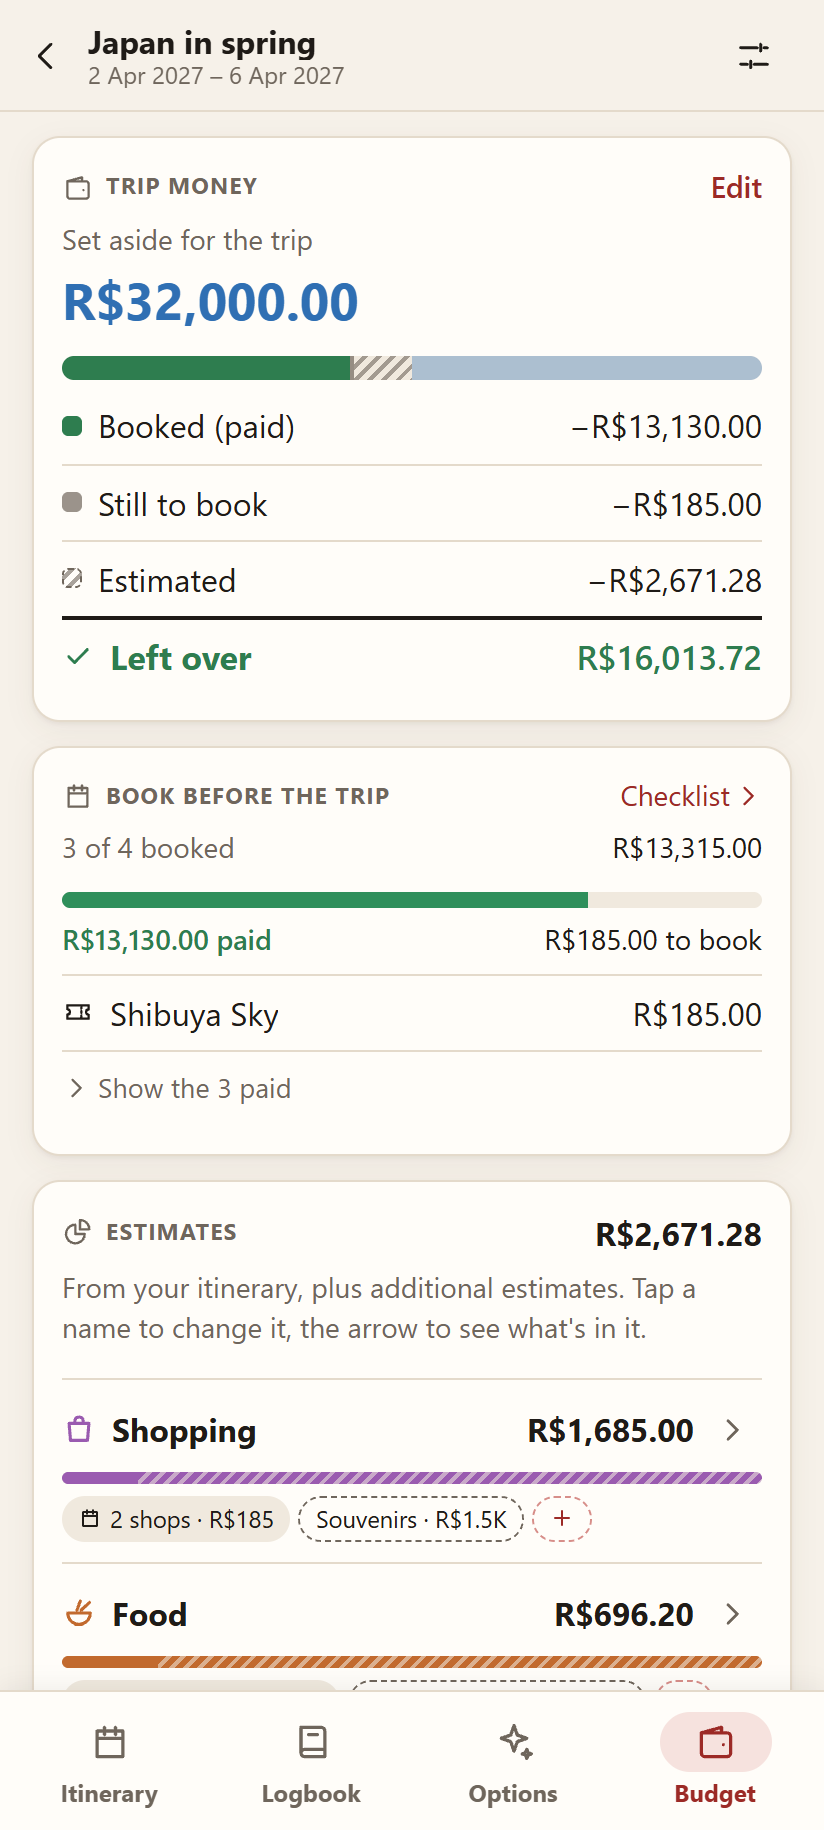
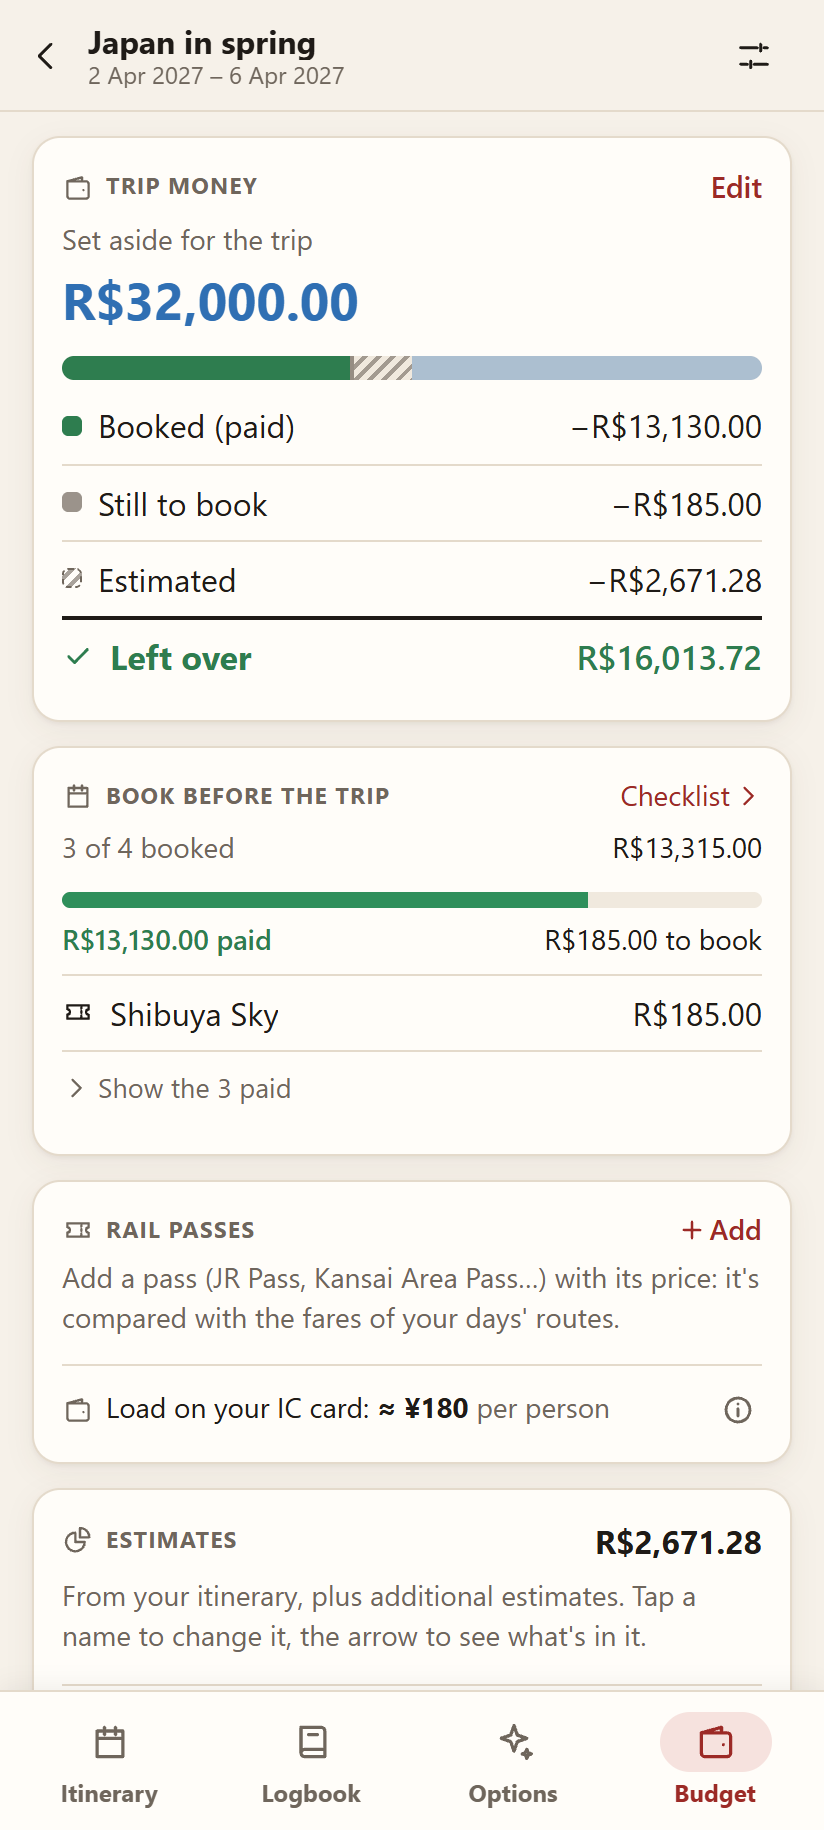
Phones: Rail passes under "Book before the trip", the hours conflict on its own line; new README screenshots (1.11.9)
- Budget on phones: the rail passes card had no order and came first, above Trip money; it now comes after "Book before the trip" (after the estimates during the trip).
- Day page on phones: an opening-hours conflict goes on a line under "N places · N km on foot", and "Optimize order" never wraps.
- README screenshots and tour.webp retaken on the demo trip (its Senso-ji now comes from an option, showing the name's "open" icon).

Changed region(s): [[0.0303, 0.6541, 0.9709, 0.9344]]

diff --git a/src/pages/DayPage.tsx b/src/pages/DayPage.tsx
@@ -270,7 +270,7 @@ export function DayPage({ tripId, dayId, hasGoogleKey }: { tripId: string; dayId
               <OptimizePanel day={day} places={places} legs={legs} onClose={() => setOptimizing(false)} />
             ) : (
               <div className="row between list-toolbar">
-                <span className="muted small">
+                <span className="muted small list-facts">
                   {places.length} places
                   {walking.meters > 0 && (
                     <span title={walking.estimated ? 'Some walks only have their minutes: estimated at 4.5 km/h' : undefined}>
@@ -279,14 +279,15 @@ export function DayPage({ tripId, dayId, hasGoogleKey }: { tripId: string; dayId
                       {formatDistance(walking.meters)} on foot
                     </span>
                   )}
+                  {/* On phones on a line of its own, under the places and the walking (User, 2026-11-03). */}
                   {conflicts > 0 && (
-                    <span className="warning">
-                      {' '}
-                      · {conflicts} opening-hours {conflicts === 1 ? 'conflict' : 'conflicts'}
+                    <span className="warning list-conflicts">
+                      <span className="list-conflicts-sep"> · </span>
+                      {conflicts} opening-hours {conflicts === 1 ? 'conflict' : 'conflicts'}
                     </span>
                   )}
                 </span>
-                <button type="button" className="ghost" onClick={() => setOptimizing(true)}>
+                <button type="button" className="ghost list-optimize" onClick={() => setOptimizing(true)}>
                   <Icon name="sparkle" /> Optimize order
                 </button>
               </div>

diff --git a/src/styles/planning.css b/src/styles/planning.css
@@ -410,6 +410,29 @@ button.hours-24.active {
 
 .list-toolbar {
   min-height: 38px;
+  flex-wrap: nowrap;
+}
+
+/* The facts shrink and wrap; "Optimize order" stays on one line, at the right. */
+.list-toolbar .list-facts {
+  flex: 1;
+  min-width: 0;
+}
+
+.list-toolbar .list-optimize {
+  flex: none;
+  white-space: nowrap;
+}
+
+/* Phones: an opening-hours conflict on a line of its own under "5 places · 2.8 km on foot". */
+@media (max-width: 599px) {
+  .list-conflicts {
+    display: block;
+  }
+
+  .list-conflicts-sep {
+    display: none;
+  }
 }
 
 .optimize-panel {

diff --git a/src/styles/budget.css b/src/styles/budget.css
@@ -49,8 +49,13 @@
     order: 2;
   }
 
-  .budget-grid .estimates-card {
+  /* Under "Book before the trip" (with no order it came first, above Trip money: found 2026-11-03). */
+  .budget-grid .rail-passes {
     order: 3;
+  }
+
+  .budget-grid .estimates-card {
+    order: 4;
   }
 
   .budget-grid.started .estimates-card {
@@ -59,6 +64,10 @@
 
   .budget-grid.started .book-ahead {
     order: 3;
+  }
+
+  .budget-grid.started .rail-passes {
+    order: 4;
   }
 }
 

diff --git a/CLAUDE.md b/CLAUDE.md
@@ -104,7 +104,7 @@ The trip is planned long before it happens, so **choosing something is not booki
     - "Book before the trip" (2B): "Checklist ›" link, "N of M booked", progress bar, paid / to book, the ones left with their category icon, the paid ones behind "Show the N paid" ("All N booked" when done).
     - "Estimates" (3C): per category (biggest first, in its color, `--cat-*` tokens) the total, a thin bar (itinerary solid, additional estimates striped) and chips ("9 restaurants · R$3.2k", each additional estimate dashed, "+"); the chevron unfolds a small table of what is in it (name · day · estimate, additional ones marked; Transport by kind of transport instead — User's choice E2 from a mock, 2026-11-02: kind · uses · estimate, biggest first, a tap opens it by day, never the lines; Flight opens each flight by its route; `MoneyItem.mode` / `uses`, the day's fares one item per kind and currency in `dayMoney`; Food and Shopping by city in the trip's order — `dayCity` of the item's date, no color dot —, a tap opens its restaurants / shops with day and estimate; group rows as tight as plain rows, no hover; fixed column widths (`.grouped`) so opening a group never moves them; any number of categories and groups open at once, `useOpenSet`); the name (or "+") opens the category's sheet (4A): total, "From the itinerary" read-only (changed on the places), "Additional estimates" editable (name · amount with a currency suffix that switches display ↔ base · trash, "+ Add"), side by side on wide screens; nothing saved before Save. "+ Add an estimate" (with a category picker).
     - From the trip's first day the card becomes "Estimated vs spent" (5A): "R$X of R$Y", a bar (amber past the estimate), "N% spent" and "R$X left" / "⚠ R$X over"; the chevron lists what was spent.
-    - Layout: phones one column (Trip money, Book before the trip, Estimates; during the trip Estimated vs spent right after Trip money), no "Budget" title; from 900px two columns: money on the left (sticky), estimates on the right. "Book before the trip" lists in order of importance (User, 2026-11-02): flights, other transport, hotels, tickets/reservations, each by date (`byBookingOrder`, `MoneyItem.booking`); a hotel's or journey's name opens its `HotelForm` / `JourneyForm` in a sheet. The "Hotels, transport & other trip costs" card (and `ExpenseList`) was removed the same day: it repeated this card; other trip-wide costs are "+ Add an estimate". Categories are picked with `CategorySelect` (each category's icon in its color; "New estimate" and "Other expense"). Hotels: "12 of 14 nights in the itinerary · 4 booked".
+    - Layout: phones one column (Trip money, Book before the trip, Rail passes on Japan trips, Estimates — the rail passes card had no `order` and came first until 2026-11-03; during the trip Estimated vs spent right after Trip money), no "Budget" title; from 900px two columns: money on the left (sticky), estimates on the right. "Book before the trip" lists in order of importance (User, 2026-11-02): flights, other transport, hotels, tickets/reservations, each by date (`byBookingOrder`, `MoneyItem.booking`); a hotel's or journey's name opens its `HotelForm` / `JourneyForm` in a sheet. The "Hotels, transport & other trip costs" card (and `ExpenseList`) was removed the same day: it repeated this card; other trip-wide costs are "+ Add an estimate". Categories are picked with `CategorySelect` (each category's icon in its color; "New estimate" and "Other expense"). Hotels: "12 of 14 nights in the itinerary · 4 booked".
     - Day page "Money for the day" (replaces "Day budget" / "Expenses this day"): before the trip (6A) the day's estimate per category (its places and routes; book-ahead places are not in it) and an info line saying so ("During the trip, log here what you spend each day. Tickets and reservations not included: they're paid before the trip."; User, 2026-11-02, after a ticket's R$70 seemed missing); during it (6C) spent / estimated per category with bars, a one-line entry (7C: amount in the trip currency, a category icon that opens category chips — the last one is remembered, localStorage `tabi.spentCategory` — "What for?", +) and the day's entries folded ("4 entries today"; a tap loads one into the entry to change it, ✕ removes). Day cards: "≈ R$420" (estimate) and, during the trip, "· R$355 spent" (purple, `--spent`).
   - Booked is one word everywhere (`BOOKED_LABEL` is "Booked" for tables and tickets too).
 
@@ -206,7 +206,7 @@ Platform support: latest Chrome on desktop and Android only (User's phone is And
   - Icons are hand-drawn SVG paths in `src/iconPaths.ts` (24×24 line icons; `iconSvg()` for map markers), drawn by `<Icon>` (`src/components/Icon.tsx`, `filled` for stars); no icon dependency. **No emojis in the UI** (User's decision, 2026-10-22, every drawing approved by her on a before/after mock): modes (`MODE_ICON`, `JOURNEY_ICON`), option kinds (`KIND_ICON`), budget categories (`CATEGORY_ICON`) are `IconName`s; their `*_LABEL`s are plain text, because dropdowns, the shared text and KML can't hold SVG (only a text "★" marks favorites in dropdowns). Hotel / base = house (`home`), "Sleeping here" = bed, place = binoculars, subway = a square train in a low, wide tunnel mouth (a tall arch looked like a veiled woman when small; an "M" sign was rejected), "Suggest transit" = the bus, stop following = a no-entry circle; airlines in a route sketch are italic text, not a plane. Icons follow the weight of the text around them (`.icon` stroke 1.8 / 2.2 semibold / 2.6 bold in index.css); pass `weight` only to fix it on purpose (the bold red pencils). Show a mock for approval before changing icons. City bases on the maps are a small tile in the place pins' red (`--base-pin` = `#b5332e`, both themes; white icon) with the base's icon (`baseMarkerSvg`), never a teardrop pin. Developer page `#/dev/icons` (Settings → Developer → Icons) shows every icon and where it is used, light/dark, to check them quickly.
 - **Phase 7 — Opening hours & optimized order** (done):
   - `Place.openingHours` (`days[0..6]`, Sunday first, each a list of time ranges — several when it closes in between, e.g. 11:00–13:00 and 18:00–22:00 — or `null` = closed; `perDay` remembers the "varies by day" editor mode; optional `note`) and `Place.visitMinutes` (default 60). **Entered manually by User** (her decision: no extra Google data; `regularOpeningHours` would be the Places Enterprise SKU, only 1,000 free/month). A close at/before the open time means after midnight; a range that closes exactly when it opens (`ALL_DAY` = 00:00–00:00, the "All day" checkbox, per day or for every open day) means open 24 hours (never late, shown "Open 24 hours"). One range per day until Dexie v8 / backup format v5 (`upgradePlace` converts old data). Editor (redesigned with the place editor, 2026-11-01): one choice box "Open on · Not set | Same every day | Varies by day" ("Open on" muted inside the box, before the buttons; short labels "Every day" / "By day" on phones and in the place editor); "Same every day" = the seven weekday chips on one line under it (closed ones struck through) + shared ranges; "Varies by day" = one line per day (the weekday chip toggles open/closed). Each range is one box "🕐 09:00 – 17:00" (Chrome's own clock hidden); a second range goes under the first, each then with ×; "+" at the end of the last one; "24h" (open all day) only while a day has a single range. `bare` drops the box and title (the place editor shows a door icon instead); the option form keeps the "Opening hours" box. Fits a 360 px phone.
-  - `src/planning/hours.ts`: windows in minutes (list of intervals), `fitVisit` (earliest interval the visit fits, else the one it overruns least), `timeConflict` (closed that weekday / opens at / reopens at / closes at) shown on place cards and counted above the day list. Hours are also in the KML descriptions and the shared text.
+  - `src/planning/hours.ts`: windows in minutes (list of intervals), `fitVisit` (earliest interval the visit fits, else the one it overruns least), `timeConflict` (closed that weekday / opens at / reopens at / closes at) shown on place cards and counted above the day list ("18 places · 16.4 km on foot · 1 opening-hours conflict"; on phones the conflict goes on a line of its own and "Optimize order" never wraps, User 2026-11-03). Hours are also in the KML descriptions and the shared text.
   - `src/planning/optimize.ts`: travel time = saved leg durations when present, else distance × 1.3 (walk ≤ 1.5 km at 4.5 km/h, else transit 12 min + 22 km/h). Schedule waits for openings; cost = conflicts, then minutes past closing, then finish time, then travel. Exact (all permutations, Heap's algorithm) up to 8 movable places, else local search (move one place / reverse a stretch) from the current and nearest-neighbor orders. Places closed that day are left out of the route (listed at the end). Options: start time, keep first, keep last.
   - `OptimizePanel` shows suggested vs current schedule; "Apply" uses `applyDayOrder` (order + optional planned times; never on closed places). Nothing changes until applied.
 
@@ -282,5 +282,5 @@ Metric only (User's request): cm, kg, km, °C. Data researched in inches or poun
 - Small, incremental commits with clear English messages.
 - **Name and version** (User, 2026-10-30) live in `app.config.json` (typed by `app.config.d.ts`; `package.json`'s version is unused, left at 0.0.0). `vite.config.ts` reads it for the manifest and the tab title (`%APP_NAME%` in `index.html`) and gives it to the app as `__APP__` (top bar brand; "v. 1.0.0" muted at the end of Settings). Bump the version with each deploy (push to main), in the same commit: `npm run version:patch` for fixes and small changes, `npm run version:minor` for a new feature (`scripts/bump-version.mjs`). Changes to documentation only (README, CLAUDE.md) don't bump it. **Major only when User says so.** Settings' "Developer" section (Transit spike, Icons) and the debug features show only in `npm run dev`.
 - Run the dev server (`npm run dev`) and the build (`npm run build`) to verify changes before saying something works.
-- README screenshots (`docs/screenshots/`: the animated `tour.webp` for the PC screens, then one row of four phone screens — trip, day, logbook (since 2026-10-28, in place of option details: User), budget — so the PC isn't shown twice; light theme only, User's choice) show a demo trip "Japan in spring" with public places only, never User's data. They are taken in a throwaway Chromium profile (Playwright's, headless, driven by the DevTools protocol) against the dev server on 5177: the demo is built in the page with the app's own modules (`importBackup`, legs and NAVITIME-style details typed in, no API requests; option photos are drawn flat illustrations on a canvas). The image at the top, `tour.webp`, is an animated WebP looping day light (the way Senso-ji → Ueno Park open) → day dark → options board (hotels) → budget, each held ~2.8 s with a short crossfade, (User liked a GIF-like loop; WebP keeps text sharper than a 256-color GIF): the same Chromium blends the PNGs on a canvas and encodes each frame as WebP, and a small Node script wraps them in the animated WebP container (frames may hold only VP8/VP8L/ALPH chunks — Chromium adds an ICCP profile that must be dropped, or the file doesn't open). No image tool installed, no dependency (Node 24's built-in WebSocket talks to Chromium). The theme is read when the page loads: after changing `tabi.theme`, reload (a hash change alone doesn't). Phone screens are 412 × 915 at 2× with touch and `hover: none` emulated. Last updated 2026-10-28 (`tour.webp` retaken for the new suggestions row, and the logbook phone screen added: Chromium's own geolocation override ~250 m south of Ueno Park with Senso-ji ticked visited, the dev-only fake GPS card and the offline-map warning hidden by CSS, `shots/logbook-shot.mjs`; the scripts were reused from the previous session's scratchpad, `shots/shoot.mjs` + `shots/demo.js`, and may be gone next time).
+- README screenshots (`docs/screenshots/`: the animated `tour.webp` for the PC screens, then one row of four phone screens — trip, day, logbook (since 2026-10-28, in place of option details: User), budget — so the PC isn't shown twice; light theme only, User's choice) show a demo trip "Japan in spring" with public places only, never User's data. They are taken in a throwaway Chromium profile (Playwright's, headless, driven by the DevTools protocol) against the dev server on 5177: the demo is built in the page with the app's own modules (`importBackup`, legs and NAVITIME-style details typed in, no API requests; option photos are drawn flat illustrations on a canvas). The image at the top, `tour.webp`, is an animated WebP looping day light (the way Senso-ji → Ueno Park open) → day dark → options board (hotels) → budget, each held ~2.8 s with a short crossfade, (User liked a GIF-like loop; WebP keeps text sharper than a 256-color GIF): the same Chromium blends the PNGs on a canvas and encodes each frame as WebP, and a small Node script wraps them in the animated WebP container (frames may hold only VP8/VP8L/ALPH chunks — Chromium adds an ICCP profile that must be dropped, or the file doesn't open). No image tool installed, no dependency (Node 24's built-in WebSocket talks to Chromium). The theme is read when the page loads: after changing `tabi.theme`, reload (a hash change alone doesn't). Phone screens are 412 × 915 at 2× with touch and `hover: none` emulated. Last updated 2026-11-03 (all retaken with the same scripts, copied from the 2026-10-28 session's scratchpad into a `shots/` folder of the session's scratchpad: `tabi.tourSeen` = '1' must be set or the tour's welcome card covers the PC screens, and the demo's Senso-ji now comes from an option, so its name shows the "open" icon). Before that, 2026-10-28 (`tour.webp` retaken for the new suggestions row, and the logbook phone screen added: Chromium's own geolocation override ~250 m south of Ueno Park with Senso-ji ticked visited, the dev-only fake GPS card and the offline-map warning hidden by CSS, `shots/logbook-shot.mjs`; the scripts were reused from the previous session's scratchpad, `shots/shoot.mjs` + `shots/demo.js`, and may be gone next time).
 - Never point a git worktree's `node_modules` at the project's through a link (junction): removing the worktree deletes the files through it (it happened on 2026-10-27; `npm ci` with the dev server stopped restored them). To check a commit alone, `git stash --keep-index --include-untracked`, typecheck, then `git stash pop`.
